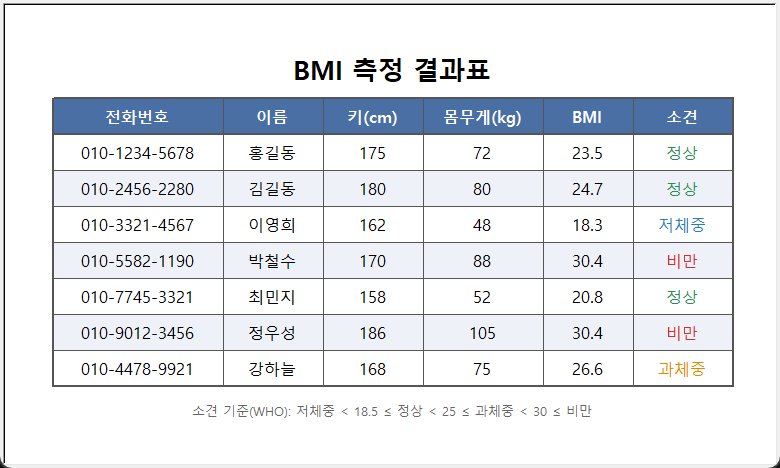
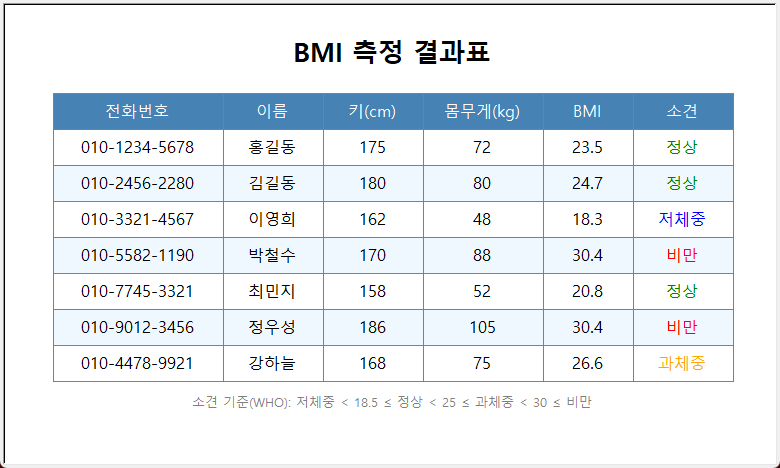
README.md 및 bmi.py, bmi_table.py 업데이트: 주요 함수 설명 추가 및 입력 파일 처리 개선; 빈 줄 및 형식 오류 경고 출력 기능 추가; Turtle 그래픽 표 저장 기능 구현

diff --git a/homework/hw001/bmi_table.py b/homework/hw001/bmi_table.py
@@ -1,18 +1,29 @@
 # health.txt를 읽어 BMI를 계산하고 Turtle로 표를 그리는 프로그램
 #
-# 실행 방법: hw001 폴더에서  python bmi_table.py
+# 실행 방법: python bmi_table.py            (창에 표 출력)
+#           python bmi_table.py --save     (표를 그린 뒤 result.png로 저장, Pillow 필요)
 
+import os
+import sys
 import turtle
 from bmi import read_health_file
+
+# 어느 폴더에서 실행해도 이 파일 옆의 health.txt를 읽도록 경로를 만든다
+BASE_DIR = os.path.dirname(os.path.abspath(__file__))
+DATA_FILE = os.path.join(BASE_DIR, "health.txt")
+RESULT_FILE = os.path.join(BASE_DIR, "result.png")
 
 # 표의 제목 줄과 각 칸의 너비
 HEADERS = ["전화번호", "이름", "키(cm)", "몸무게(kg)", "BMI", "소견"]
 COL_WIDTHS = [170, 100, 100, 120, 90, 100]
 ROW_HEIGHT = 36
+MARGIN = 40                             # 표 바깥 여백
+TITLE_SPACE = 60                        # 표 위 제목 공간
 
 # 글꼴 (크기를 음수로 쓰면 픽셀 단위라 화면 배율이 달라도 칸에 맞게 나온다)
 TITLE_FONT = ("맑은 고딕", -26, "bold")
 CELL_FONT = ("맑은 고딕", -16, "normal")
+LEGEND_FONT = ("맑은 고딕", -13, "normal")
 
 
 def draw_rect(t, x, y, width, height, color):
@@ -38,6 +49,13 @@ def write_text(t, x, y, text, font, color):
     t.goto(x, y - 10)                   # 글자가 칸 세로 가운데 오도록 조금 내린다
     t.color(color)
     t.write(text, align="center", font=font)
+
+
+def fmt_number(value):
+    """175.0처럼 정수인 값은 175로, 아니면 소수 첫째 자리까지 글자로 만든다."""
+    if value == int(value):
+        return str(int(value))
+    return str(round(value, 1))
 
 
 def category_color(category):
@@ -83,7 +101,7 @@ def draw_table(t, records):
     # 데이터 줄
     for i in range(len(records)):
         phone, name, height, weight, bmi, category = records[i]
-        cells = [phone, name, str(height), str(weight), str(round(bmi, 1)), category]
+        cells = [phone, name, fmt_number(height), fmt_number(weight), f"{bmi:.1f}", category]
 
         if i % 2 == 0:                  # 줄무늬 배경
             bg_color = "white"
@@ -93,13 +111,51 @@ def draw_table(t, records):
         row_top = top - ROW_HEIGHT * (i + 1)
         draw_row(t, left, row_top, cells, bg_color, "black")
 
+    # 표 아래 소견 기준(범례)
+    legend = "소견 기준(WHO): 저체중 < 18.5 ≤ 정상 < 25 ≤ 과체중 < 30 ≤ 비만"
+    table_bottom = top - ROW_HEIGHT * (len(records) + 1)
+    write_text(t, 0, table_bottom - 20, legend, LEGEND_FONT, "gray")
+
+
+def save_screenshot(screen, path):
+    """Turtle 창을 맨 앞으로 올린 뒤 그림 영역을 캡처해 PNG로 저장한다."""
+    from PIL import ImageGrab           # pip install pillow
+
+    canvas = screen.getcanvas()
+    window = canvas.winfo_toplevel()
+    window.attributes("-topmost", True) # 다른 창에 가려진 채로 찍히지 않게
+    window.lift()
+    window.update()
+
+    x = canvas.winfo_rootx()
+    y = canvas.winfo_rooty()
+    w = canvas.winfo_width()
+    h = canvas.winfo_height()
+    ImageGrab.grab(bbox=(x, y, x + w, y + h)).save(path)
+    print("결과 화면 저장:", path)
+
 
 def main():
-    records = read_health_file("health.txt")
+    if sys.platform == "win32":
+        # 고해상도 화면에서 글자가 흐려지거나 캡처 위치가 어긋나지 않게 한다
+        try:
+            import ctypes
+            ctypes.windll.shcore.SetProcessDpiAwareness(1)
+        except Exception:
+            pass
+
+    records = read_health_file(DATA_FILE)
+    if len(records) == 0:
+        print("health.txt에 표시할 데이터가 없습니다.")
+        return
+
+    # 데이터 줄 수에 맞춰 창 크기를 정한다
+    width = sum(COL_WIDTHS) + MARGIN * 2
+    height = ROW_HEIGHT * (len(records) + 1) + TITLE_SPACE + MARGIN * 2 + 20
 
     screen = turtle.Screen()
     screen.title("BMI 계산 결과")
-    screen.setup(800, 500)
+    screen.setup(width + 20, height + 20)
     screen.tracer(0)                    # 그리는 과정을 생략하고 한 번에 보여준다
 
     t = turtle.Turtle()
@@ -107,7 +163,16 @@ def main():
     draw_table(t, records)
 
     screen.update()
+
+    if "--save" in sys.argv:
+        # 창이 완전히 뜰 때까지 잠시 기다렸다가 저장하고 창을 닫는다
+        def save_and_close():
+            save_screenshot(screen, RESULT_FILE)
+            screen.bye()
+        screen.ontimer(save_and_close, 800)
+
     turtle.done()
 
 
-main()
+if __name__ == "__main__":
+    main()

diff --git a/homework/hw001/bmi.py b/homework/hw001/bmi.py
@@ -23,21 +23,37 @@ def read_health_file(filename):
     """health.txt를 읽어 사람별 정보 리스트를 반환한다.
 
     반환 예: [["010-1234-5678", "홍길동", 175.0, 72.0, 23.5, "정상"], ...]
+    빈 줄이나 형식이 잘못된 줄은 경고를 출력하고 건너뛴다.
     """
-    f = open(filename, "r", encoding="utf-8")
-    lines = f.readlines()
+    try:
+        f = open(filename, "r", encoding="utf-8-sig")
+        lines = f.readlines()
+    except UnicodeDecodeError:
+        # 윈도우 메모장(ANSI, CP949)으로 저장된 파일이면 다시 읽는다
+        f.close()
+        f = open(filename, "r", encoding="cp949")
+        lines = f.readlines()
     f.close()
 
     records = []
-    for line in lines[1:]:              # 첫 줄은 제목이므로 건너뛴다
+    for i in range(1, len(lines)):      # 첫 줄은 제목이므로 건너뛴다
+        line = lines[i].strip()
+        if line == "":                  # 빈 줄은 건너뛴다
+            continue
+
         parts = line.split()
-        if len(parts) != 4:             # 빈 줄 등은 건너뛴다
+        if len(parts) != 4:
+            print(f"[경고] {i + 1}번째 줄 형식 오류로 건너뜀: {line}")
             continue
 
         phone = parts[0]
         name = parts[1]
-        height = float(parts[2])
-        weight = float(parts[3])
+        try:
+            height = float(parts[2])
+            weight = float(parts[3])
+        except ValueError:
+            print(f"[경고] {i + 1}번째 줄 숫자 오류로 건너뜀: {line}")
+            continue
 
         bmi = calculate_bmi(weight, height)
         category = bmi_category(bmi)

diff --git a/homework/hw001/README.md b/homework/hw001/README.md
@@ -64,13 +64,21 @@ health.txt ──▶ read_health_file() ──▶ 레코드 목록 ──▶ dra
 | `health.txt` | 입력 데이터 (전화번호, 이름, 키, 몸무게) |
 | `result.png` | 실행 결과 화면 캡처 |
 
-### 주요 함수 (`bmi_table.py`)
+### 주요 함수
 
-- `fill_rect()` : 왼쪽 위 꼭짓점과 가로/세로 길이로 색칠된 사각형을 그린다. (헤더, 줄무늬 배경)
-- `line()` : 두 점 사이에 선을 긋는다. (표의 격자선)
-- `write_center()` : 칸의 중심 좌표에 글자를 가운데 정렬로 쓴다.
-- `draw_table()` : 제목, 배경, 격자, 헤더, 데이터, 범례 순서로 표 전체를 그린다.
-- `save_screenshot()` : Turtle 창을 맨 앞으로 올린 후 캔버스 영역을 캡처해 PNG로 저장한다. (Pillow 사용)
+`bmi.py`
+- `calculate_bmi()` : 몸무게(kg)와 키(cm)로 BMI를 계산한다.
+- `bmi_category()` : BMI 값으로 소견(저체중/정상/과체중/비만)을 정한다.
+- `read_health_file()` : `health.txt`를 읽어 사람별 `[전화번호, 이름, 키, 몸무게, BMI, 소견]` 리스트를 만든다.
+
+`bmi_table.py`
+- `draw_rect()` : 왼쪽 위 꼭짓점과 가로/세로 길이로 색칠된 사각형(칸)을 그린다.
+- `write_text()` : 칸의 가운데에 글자를 쓴다.
+- `draw_row()` : 칸을 옆으로 이어 그려 표의 한 줄을 만든다.
+- `category_color()` : 소견에 따라 글자 색을 정한다.
+- `fmt_number()` : `175.0` 같은 값을 `175`로 보기 좋게 바꾼다.
+- `draw_table()` : 제목, 헤더 줄, 데이터 줄(줄무늬), 범례 순서로 표 전체를 그린다.
+- `save_screenshot()` : Turtle 창을 맨 앞으로 올린 뒤 그림 영역을 캡처해 PNG로 저장한다. (Pillow 사용)
 
 ## 5. 실행 방법
 
@@ -89,20 +97,14 @@ python bmi_table.py --save    # 표 출력 후 result.png 저장 (Pillow 필요:
 
 | 이름 | 역할 |
 |---|---|
-| (이찬민) | 팀장. 전체 설계(함수 나누기), `bmi_table.py`의 `draw_table()`·`main()` 작성, GitHub 관리
-및 제출 |
-| (이우성) | `bmi.py`의 `calculate_bmi()`·`bmi_category()`·`read_health_file()` 작성, `test_bmi()` 테스
-트, `health.txt` 데이터 작성 |
+| (이찬민) | 팀장. 전체 설계(함수 나누기), `bmi_table.py`의 `draw_table()`·`main()` 작성, GitHub 관리 및 제출 |
+| (이우성) | `bmi.py`의 `calculate_bmi()`·`bmi_category()`·`read_health_file()` 작성, `test_bmi()` 테스트, `health.txt` 데이터 작성 |
 | (신재중) | `bmi_table.py`의 `draw_rect()`·`write_text()`·`draw_row()` 작성, 실행 결과 화면 캡처 |
 | (이서준) | `category_color()` 작성, 보고서(README.md) 작성 및 정리 |
 
 ## 8. 소감
 
-- (이찬민) 처음에는 한 파일에 모든 코드를 넣으려고 했는데 기능별로 함수를 나누니 어디서 무엇을 하는지
-한눈에 보여서 수정하기가 훨씬 쉬웠다. 팀장으로서 역할을 나누고 GitHub에 합치는 과정도 좋은 경험이었다.
-- (이우성) BMI 공식은 간단했지만 키를 cm에서 m로 바꾸는 것을 빠뜨리면 값이 완전히 달라져서 테스트 함수
-의 중요성을 느꼈다. 파일을 한 줄씩 읽어 `split()`으로 나누는 방법을 익혔다.
-- (신재중) Turtle로 표를 그릴 때 좌표 계산이 가장 어려웠다. 칸 하나를 그리는 함수를 먼저 만들고 그것을
-반복해서 한 줄, 표 전체를 만드니 문제를 작게 나누는 방법을 배울 수 있었다.
-- (이서준) 소견에 따라 글자 색을 바꾸는 함수를 만들면서 `if`/`elif`를 활용해 보았다. 보고서를 쓰면서 우
-리 코드가 어떤 순서로 동작하는지 다시 정리할 수 있어서 이해에 도움이 되었다.
+- (이찬민) 처음에는 한 파일에 모든 코드를 넣으려고 했는데 기능별로 함수를 나누니 어디서 무엇을 하는지 한눈에 보여서 수정하기가 훨씬 쉬웠다. 팀장으로서 역할을 나누고 GitHub에 합치는 과정도 좋은 경험이었다.
+- (이우성) BMI 공식은 간단했지만 키를 cm에서 m로 바꾸는 것을 빠뜨리면 값이 완전히 달라져서 테스트 함수의 중요성을 느꼈다. 파일을 한 줄씩 읽어 `split()`으로 나누는 방법을 익혔다.
+- (신재중) Turtle로 표를 그릴 때 좌표 계산이 가장 어려웠다. 칸 하나를 그리는 함수를 먼저 만들고 그것을 반복해서 한 줄, 표 전체를 만드니 문제를 작게 나누는 방법을 배울 수 있었다.
+- (이서준) 소견에 따라 글자 색을 바꾸는 함수를 만들면서 `if`/`elif`를 활용해 보았다. 보고서를 쓰면서 우리 코드가 어떤 순서로 동작하는지 다시 정리할 수 있어서 이해에 도움이 되었다.
